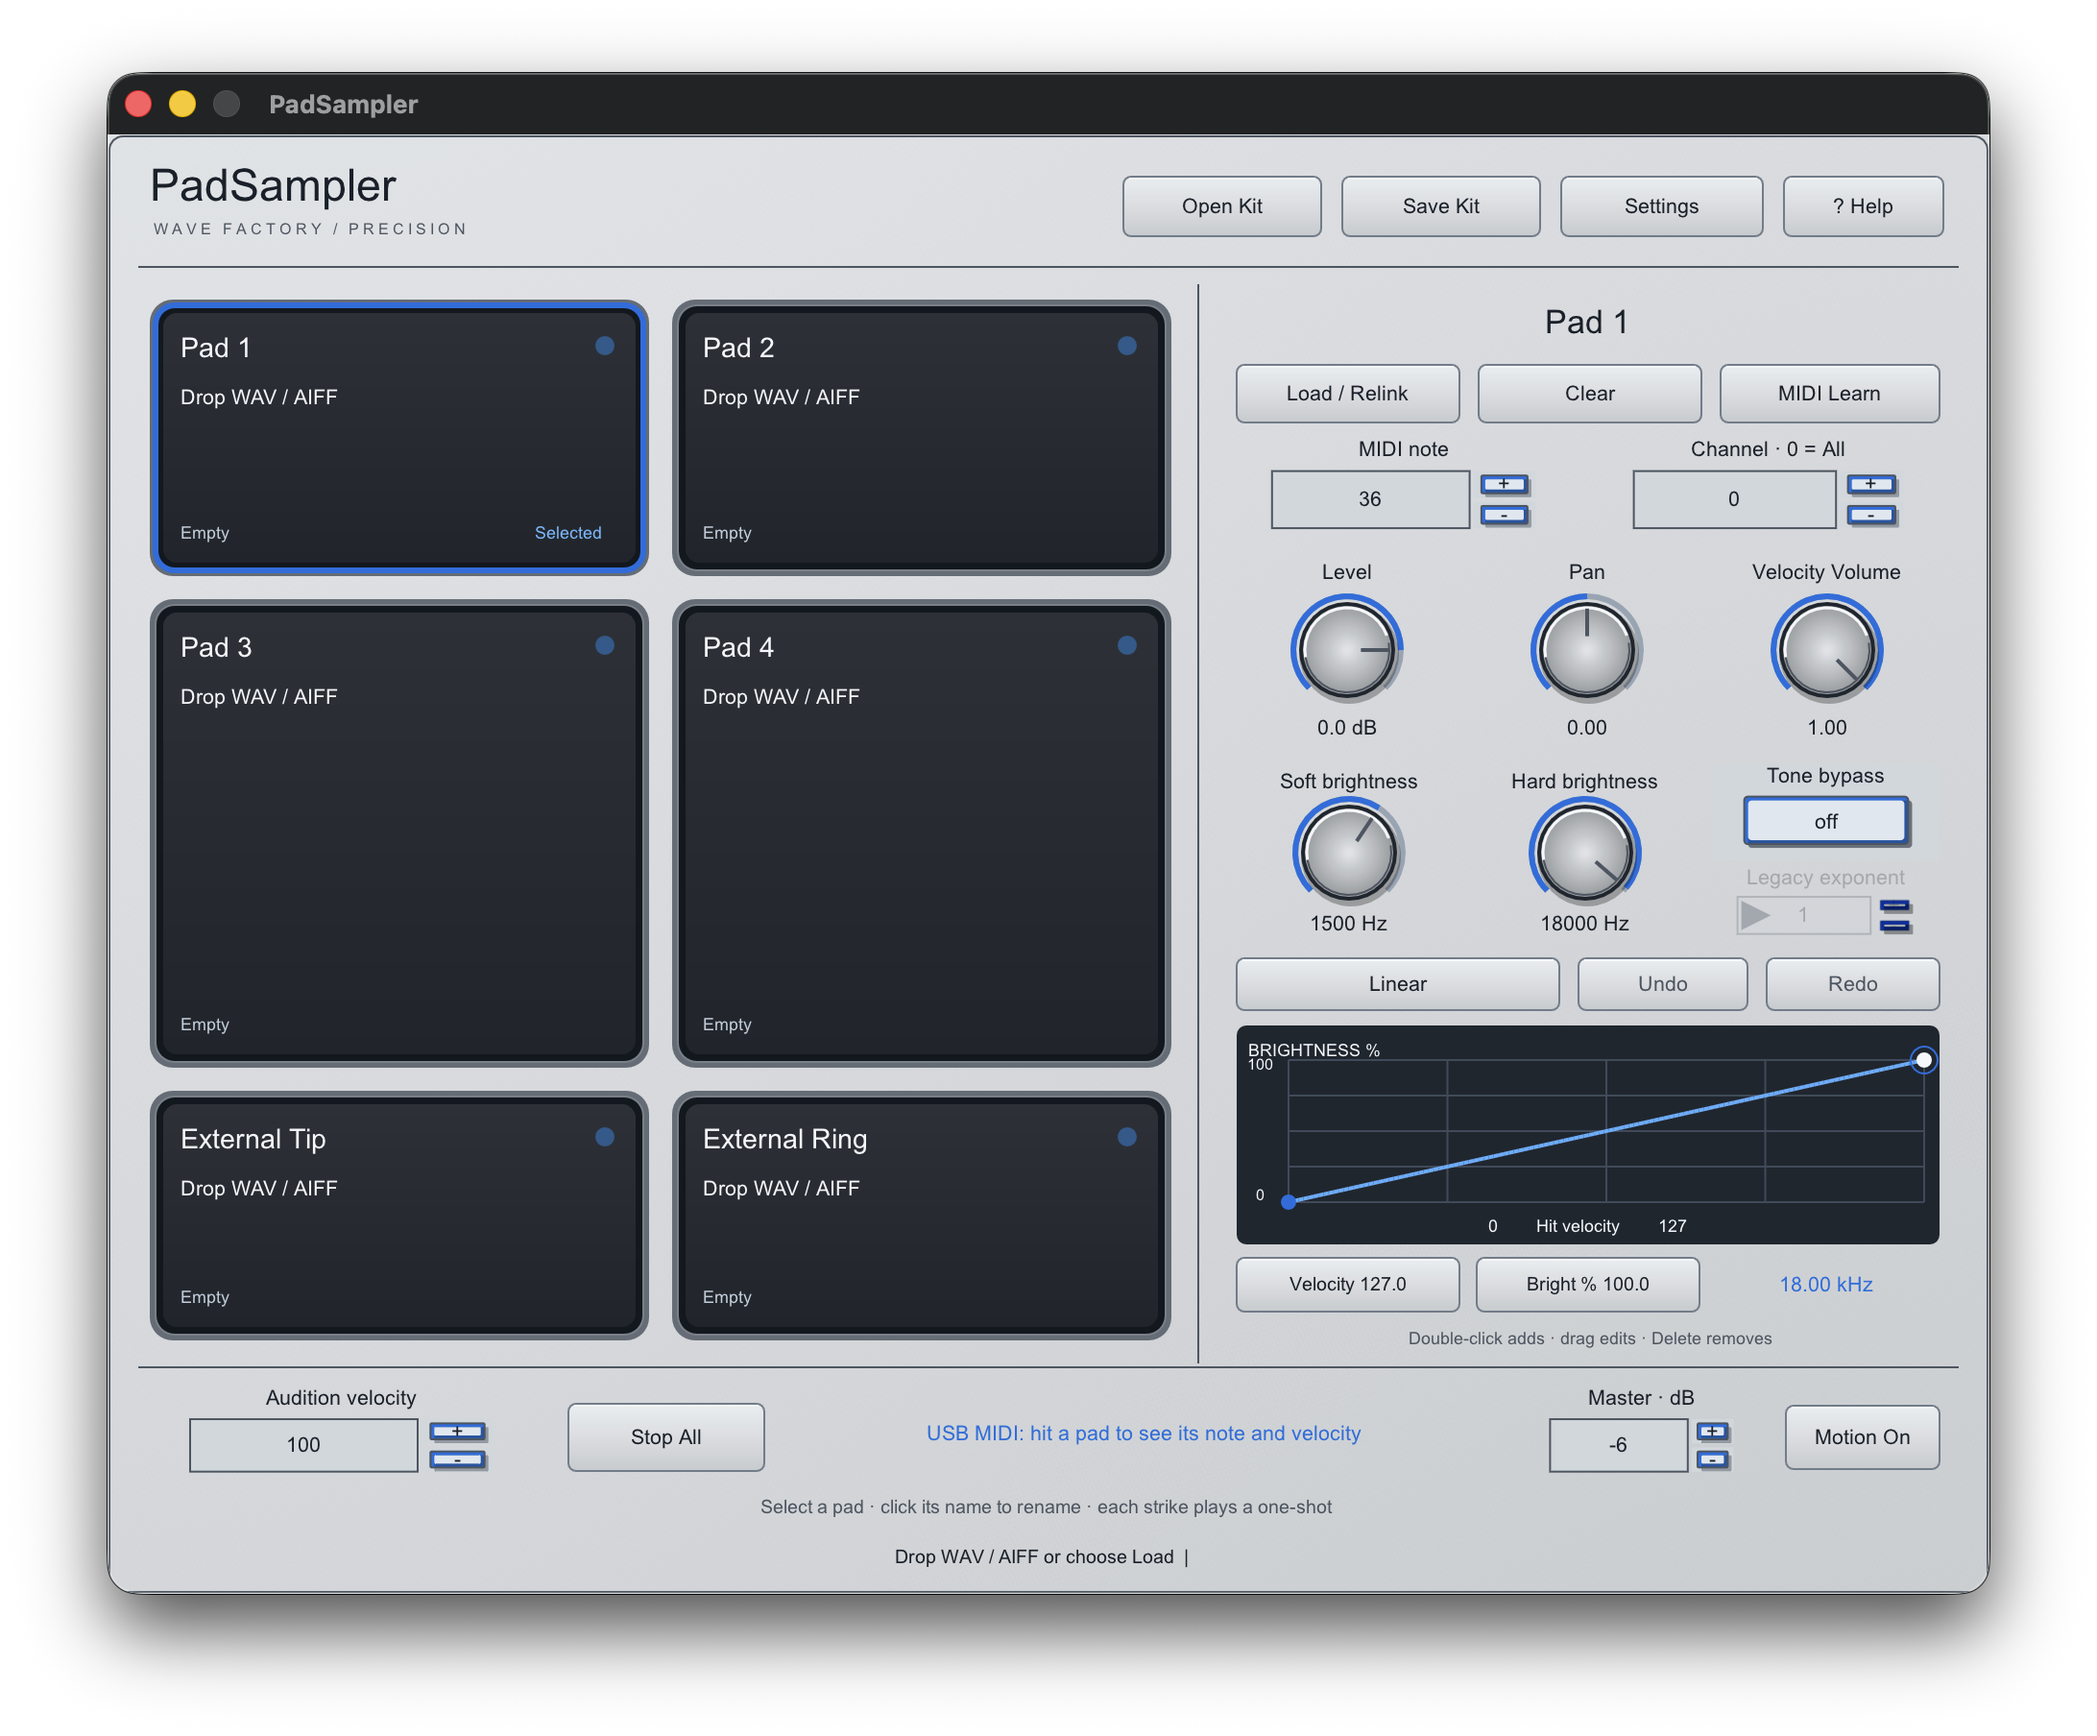
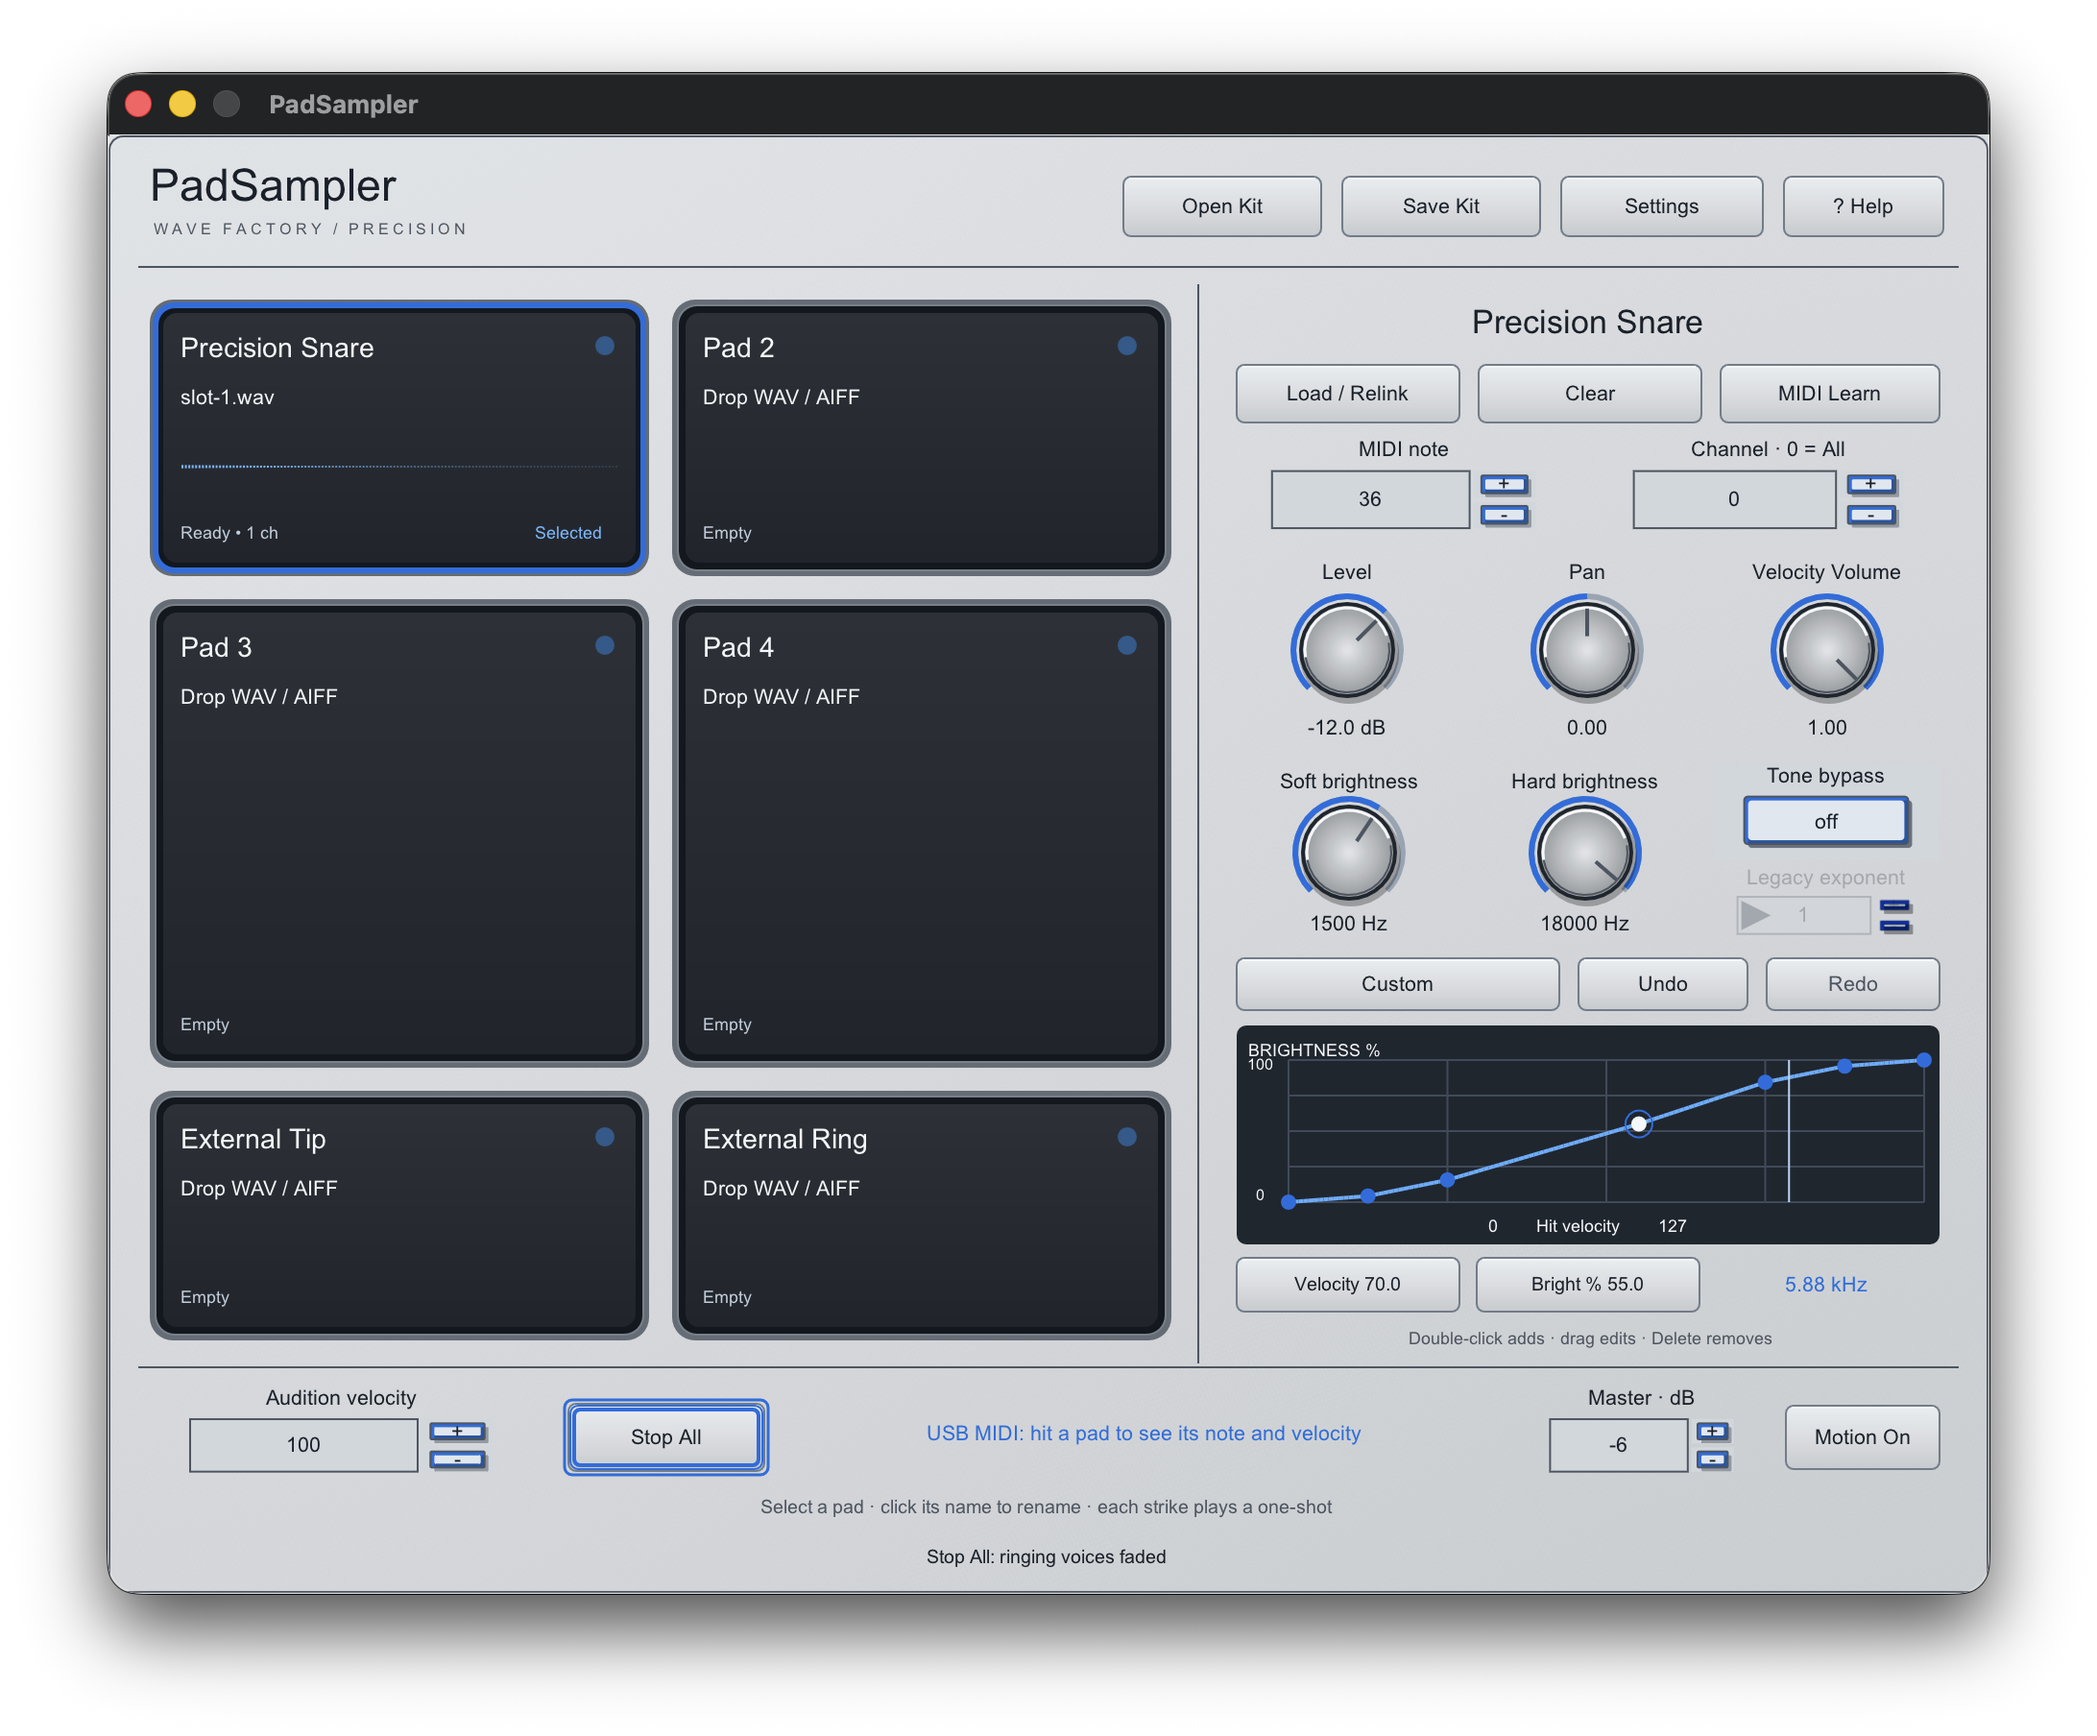
Verify native Precision interactions and harden macOS UI harness

diff --git a/scripts/padsampler-ui-events.swift b/scripts/padsampler-ui-events.swift
@@ -12,13 +12,13 @@ func point(_ i:Int)->CGPoint { CGPoint(x: origin.x + Double(args[i])!, y: origin
 func mouse(_ type: CGEventType, _ p: CGPoint, _ count: Int64 = 1) { CGWarpMouseCursorPosition(p); let e=CGEvent(mouseEventSource:nil,mouseType:type,mouseCursorPosition:p,mouseButton:.left)!;e.setIntegerValueField(.mouseEventClickState,value:count);e.post(tap:.cghidEventTap) }
 switch args[1] {
 case "window": print(w[kCGWindowNumber as String]!); print(b)
-case "click": mouse(.leftMouseDown,point(2));usleep(60000);mouse(.leftMouseUp,point(2))
-case "double": for n:Int64 in 1...2 {mouse(.leftMouseDown,point(2),n);mouse(.leftMouseUp,point(2),n);usleep(65000)}
-case "down": mouse(.leftMouseDown,point(2))
+case "click": mouse(.mouseMoved,point(2));usleep(100000);mouse(.leftMouseDown,point(2));usleep(60000);mouse(.leftMouseUp,point(2))
+case "double": mouse(.mouseMoved,point(2));usleep(100000);for n:Int64 in 1...2 {mouse(.leftMouseDown,point(2),n);mouse(.leftMouseUp,point(2),n);usleep(65000)}
+case "down": mouse(.mouseMoved,point(2));usleep(100000);mouse(.leftMouseDown,point(2))
 case "up": mouse(.leftMouseUp,point(2))
 case "move": mouse(.mouseMoved,point(2))
 case "drag":
- let a=point(2),z=point(4);mouse(.leftMouseDown,a);usleep(60000)
+ let a=point(2),z=point(4);mouse(.mouseMoved,a);usleep(100000);mouse(.leftMouseDown,a);usleep(60000)
  for i in 1...20 {let t=Double(i)/20;mouse(.leftMouseDragged,CGPoint(x:a.x+(z.x-a.x)*t,y:a.y+(z.y-a.y)*t));usleep(16000)}
  mouse(.leftMouseUp,z)
 case "key":

diff --git a/scripts/test-padsampler-ui.py b/scripts/test-padsampler-ui.py
@@ -27,8 +27,9 @@ def event(*args):
     subprocess.run([str(a.events.resolve()), *map(str, args)], env=env, check=True, capture_output=True)
     time.sleep(.15)
 
-def apple(body):
+def apple(body, activate=True):
     script = f'tell application "System Events"\n tell (first process whose unix id is {a.pid})\n set frontmost to true\n{body}\n end tell\nend tell'
+    if not activate: script=script.replace(" set frontmost to true\n", "")
     return subprocess.check_output(['osascript', '-e', script], text=True)
 
 def choose(path):
@@ -55,7 +56,13 @@ def save(name):
     apple('set value of text field "Save As:" of splitter group 1 of sheet 1 of window 1 to '+json.dumps(path.name)+'\nkeystroke "g" using {command down, shift down}\ndelay 0.5\nkeystroke '+json.dumps(str(a.output))+'\ndelay 0.3\nkey code 36\ndelay 0.8\nclick button "Save" of splitter group 1 of sheet 1 of window 1')
     for _ in range(100):
         manifest = path / 'kit.json'
-        if manifest.exists(): return json.loads(manifest.read_text())
+        if manifest.exists():
+            for _ in range(50):
+                if apple('return exists sheet 1 of window 1').strip()=='false':
+                    time.sleep(.4)
+                    return json.loads(manifest.read_text())
+                time.sleep(.1)
+            raise AssertionError('Save completed but its native sheet did not close')
         time.sleep(.05)
     raise AssertionError('Kit was not saved: '+name)
 
@@ -75,6 +82,7 @@ with wave.open(str(a.output/'qa.wav'),'wb') as f:
 fixture['slots'][0]['path']='qa.wav'
 (a.output/'initial.json').write_text(json.dumps(fixture))
 apple('')
+event('key',53) # Dismiss any leftover native popup before the fresh fixture.
 time.sleep(1)
 openkit(a.output/'initial.json')
 event('click',120,160)
@@ -123,9 +131,11 @@ event('click',915,37);capture('05-help');event('move',10,740);event('key',53);ca
 xs=[0,.125,.25,.5,.75,.875,1]
 for i, name in enumerate(['linear','early','late','s-curve']):
     event('click',670,443)
-    # A native NSMenu starts with no selected item; down selects its first item.
-    for _ in range(i+1): event('key',125)
-    event('key',36)
+    # Native type-ahead selects by label; do not reactivate the app while its menu tracks.
+    menu_name=["Linear","Early Open","Late Open","S-Curve"][i]
+    time.sleep(.6)
+    apple('keystroke '+json.dumps(menu_name)+'\ndelay 0.2\nkey code 36', activate=False)
+    time.sleep(.2)
     chosen=save('preset-'+name)
     points=chosen['curves'][0]['points']
     expected=[[x, x if i==0 else math.sqrt(x) if i==1 else x*x if i==2 else 3*x*x-2*x*x*x] for x in xs]
@@ -138,5 +148,28 @@ malformed=json.loads(json.dumps(fixture));malformed['curves'][0]['points']=[[0,0
 openkit(a.output/'invalid.json')
 capture('08-invalid-kit')
 assert save('after-invalid')['curves']==chosen['curves']
-(a.output/'result.txt').write_text('PASS: native add/drag/delete, undo/redo, bypass, slot isolation, dialog cancel, kit recall, text editing, Help, four asynchronous preset choices and malformed-kit preservation.\n')
+# Keyboard and numeric entry operate on the selected interior point.
+event('click',780,519)
+event('key',124)
+apple('key code 126 using shift down', activate=False)
+time.sleep(.2)
+keyboard=save('keyboard')
+assert abs(keyboard['curves'][0]['points'][3][0]-.51)<1e-12
+assert abs(keyboard['curves'][0]['points'][3][1]-.501)<1e-12
+for x,value in [(645,'70'),(775,'55')]:
+    event('click',x,599)
+    apple('keystroke "a" using command down', activate=False)
+    for char in value:
+        apple('keystroke '+json.dumps(char), activate=False)
+        time.sleep(.15)
+    apple('key code 36', activate=False)
+    time.sleep(.2)
+numeric=save('numeric')
+assert numeric['curves'][0]['points'][3]==[70/127,.55]
+capture('09-numeric')
+# Momentary Stop All pressed and released states are captured for renderer review.
+event('down',290,678);capture('10-pressed')
+event('up',290,678);capture('11-released')
+event('down',290,678);event('move',360,635);event('up',360,635);capture('12-pointer-exit')
+(a.output/'result.txt').write_text('PASS: native add/drag/delete, undo/redo, bypass, slot isolation, dialog cancel, kit recall, text editing, Help, four asynchronous preset choices, malformed-kit preservation, keyboard and numeric point edits. Press/release/exit screenshots captured for visual review.\n')
 print(a.output)

diff --git a/docs/padsampler-precision-verification.md b/docs/padsampler-precision-verification.md
@@ -9,6 +9,8 @@ reproducible at 1× and 2×; labels and values remain live renderer text.
 
 This is a screenshot of the current standalone build, not a generated concept.
 
+![Actual Help overlay](images/padsampler-precision-help.png)
+
 ## Automated evidence
 
 - Universal arm64/x86_64 standalone, AU and VST3 build succeeds.
@@ -28,16 +30,26 @@ head-specific validation and tester artifacts; consult the PR checks for their s
 
 ## Native interaction evidence and remaining checks
 
-A dedicated standalone instance passed real native add/drag/delete, Undo/Redo,
+A dedicated final-build standalone instance passed native add/drag/delete, Undo/Redo,
 bypass, per-slot isolation, native dialog cancellation, collected-kit save/recall,
-name editing across idle updates, MIDI Learn waiting/cancellation, and Help/Escape.
-The successful run is `precision-ui-run2`; its saved manifests are checked against
-actual interactions. It preceded the final menu-lifetime and drawing refinements.
+name editing across idle updates, MIDI Learn waiting/cancellation and Help/Escape.
+Further native assertions verified all four preset point arrays, malformed-kit
+preservation, arrow movement with Shift fine adjustment and numeric velocity/brightness.
+Pressed and released Stop All screenshots were inspected: the face darkens under
+press, returns on release, and the footer confirms the action.
 
-Manual native testing found an asynchronous NSMenu lifetime crash. The menu now lives
-with its control. The expanded regression exercises all four preset choices and
-malformed-kit preservation. Its final rerun is **pending** because the Mac reached
-`loginwindow`; do not treat a compiled fix or pluginval as a passing menu-click test.
+Evidence is retained across `precision-ui-regression` (gestures/recall/Help),
+`precision-ui-curves-verified` (presets/malformed state/keyboard), and
+`precision-ui-numeric-final` (numeric entry/button images). Some earlier automation
+runs failed because native Save sheets were still closing, menu activation disrupted
+tracking, or synthetic repeated keystrokes arrived too quickly. The harness now waits
+for sheet dismissal, uses menu type-ahead without reactivation, and types numeric
+characters with a brief delay. Exact saved-state assertions remain intact.
+
+Native testing also found and fixed a real asynchronous NSMenu lifetime crash: the
+preset control now owns its menu. An old crash-report dialog blocked subsequent input
+and was initially misdiagnosed as the lock screen; it was dismissed before the verified
+runs. No lock-screen bypass was attempted. The final native preset selections succeed.
 
 The opt-in harness requires an unlocked idle desktop, Accessibility permission and a
 fresh dedicated PadSampler process, since it replaces that process's kit. Never point
@@ -53,8 +65,7 @@ python3 scripts/test-padsampler-ui.py --pid <dedicated-app-pid> \
 Use a new output directory for each run. Build/sign before launching the process;
 replacing its bundle while open can invalidate native file-dialog XPC services.
 
-Still required: final preset-menu/button-state regression, complete empty/loading/
-ready/missing/error/focus visual matrix in standalone and host editors at both scales,
+Still required: complete empty/loading/ready/missing/error/focus visual matrix in standalone and host editors at both scales,
 Logic loaded-sample custom-curve session recall, physical six-trigger independence,
 listening and measured latency. These remain acceptance work, not automated claims.
 
